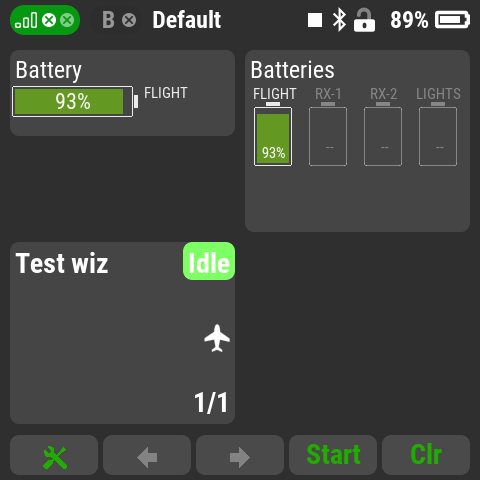
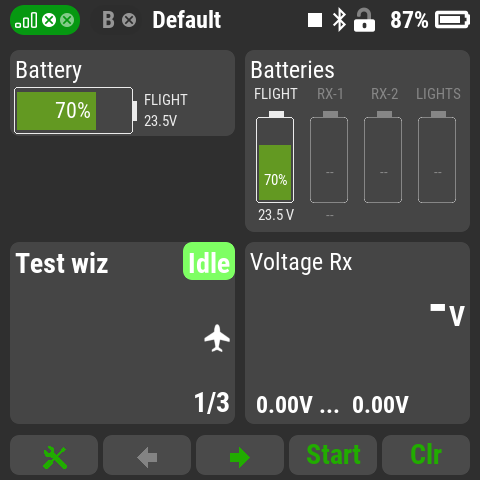
Screenshots: Flameout Alarm and Battery Capacity in native drawing (DS-24 II)
Flameout Alarm armed at idle, flameout and disarmed; Battery Capacity's
windows at 70% and an empty pack's low-voltage alarm. Captions follow. Taken
with the SIM builds (no CPU readout) on 2026-11-25.

diff --git a/docs/apps/battery-capacity.html b/docs/apps/battery-capacity.html
@@ -30,10 +30,10 @@
             (LiPo, LiHV, Li-ion, LiFe, NiMH/NiCd); everything can be
             changed.</li>
         </ul>
-        <img src="img/battery-capacity-alarm.png" alt="Two packs disconnected: red low-voltage outlines" width="480">
-        <p>Above: one receiver pack and the ECU pack unplugged. Their
-        outlines turn red and the low-voltage alarm speaks.</p>
-        <img src="img/battery-capacity-windows.png" alt="The single-size and double-size windows" width="480">
+        <img src="img/battery-capacity-alarm.png" alt="An empty pack: red low-voltage outline" width="480">
+        <p>Above: the flight pack is empty (21.0 V). Its outline flashes red
+        and the low-voltage alarm speaks.</p>
+        <img src="img/battery-capacity-windows.png" alt="The single-size and double-size windows, flight pack at 70%" width="480">
         <p><b>Advisory only.</b> It never controls the model, and doesn't
         replace the transmitter's own receiver-voltage alarm.</p>
         <h3>Setting up</h3>

diff --git a/README.md b/README.md
@@ -22,11 +22,11 @@ Taken on a DS-24 II transmitter.
 <img src="docs/apps/img/speed-gauge.png" width="200" alt="Speed Gauge full screen: dial at 162 mph, max 160, with stall, overspeed, air density, elevation, temperature and raw speed rows">
 <img src="docs/apps/img/speed-gauge-double.png" width="200" alt="Speed Gauge single-size speed bar and double-size dial at 96 mph, max 219, on the main screen">
 
-**Flameout Alarm:** armed at 60,000 RPM, flameout alarm, disarmed
+**Flameout Alarm:** armed at idle (35,000 RPM), flameout alarm, disarmed
 
-<img src="docs/apps/img/flameout-alarm-armed.png" width="200" alt="Flameout Alarm armed, RPM bar at 60,000">
+<img src="docs/apps/img/flameout-alarm-armed.png" width="200" alt="Flameout Alarm armed at 35,000 RPM, the sweep lit up to the idle marker">
 <img src="docs/apps/img/flameout-alarm-flameout.png" width="200" alt="Flameout Alarm showing the red FLAMEOUT alarm at 0 RPM">
-<img src="docs/apps/img/flameout-alarm-disarmed.png" width="200" alt="Flameout Alarm disarmed at 35,000 RPM">
+<img src="docs/apps/img/flameout-alarm-disarmed.png" width="200" alt="Flameout Alarm disarmed at 0 RPM, the idle marker on the unlit sweep">
 
 **Throttle Setup Wizard:** a guided step, verify passed,
 the summary. Full guide:
@@ -37,12 +37,12 @@ the summary. Full guide:
 <img src="docs/apps/img/throttle-setup-wizard-summary.png" width="200" alt="Throttle Setup Wizard Summary: setup complete with measured values">
 
 **Battery Capacity:** two receiver packs and the ECU on a Central Box 210,
-two packs unplugged (low-voltage alarm), both window sizes. More:
+an empty pack (low-voltage alarm), both window sizes. More:
 [Battery Capacity](docs/apps/battery-capacity.md).
 
 <img src="docs/apps/img/battery-capacity-main.png" width="200" alt="Battery Capacity: RX-1, RX-2 and ECU packs with current and voltage under each">
-<img src="docs/apps/img/battery-capacity-alarm.png" width="200" alt="Battery Capacity: RX-2 and ECU unplugged, outlined in red">
-<img src="docs/apps/img/battery-capacity-windows.png" width="200" alt="Battery Capacity single-size and double-size windows, flight pack at 93%">
+<img src="docs/apps/img/battery-capacity-alarm.png" width="200" alt="Battery Capacity: the flight pack empty at 21.0 V, outlined in red for the low-voltage alarm">
+<img src="docs/apps/img/battery-capacity-windows.png" width="200" alt="Battery Capacity single-size and double-size windows, flight pack at 70%">
 
 ### Speed Gauge
 

diff --git a/docs/apps/battery-capacity.md b/docs/apps/battery-capacity.md
@@ -25,7 +25,7 @@ JETI **DC/DS-24 II** and the **first-version DC/DS-24**.
   optional current alarm, session max current and an optional "pack not
   full" check when you plug a pack in.
 
-  ![One receiver pack and the ECU pack unplugged: red outlines and the low-voltage alarm](https://raw.githubusercontent.com/Flazzarious/jeti-lua-apps/main/docs/apps/img/battery-capacity-alarm.png)
+  ![An empty flight pack: red outline and the low-voltage alarm](https://raw.githubusercontent.com/Flazzarious/jeti-lua-apps/main/docs/apps/img/battery-capacity-alarm.png)
 - **Pack swap or brown-out:** after telemetry drops out and comes back, a
   fresh pack resets that pack's callouts; a brief dropout keeps them.
 - **Smart defaults** from the pack's category and chemistry (LiPo, LiHV,
